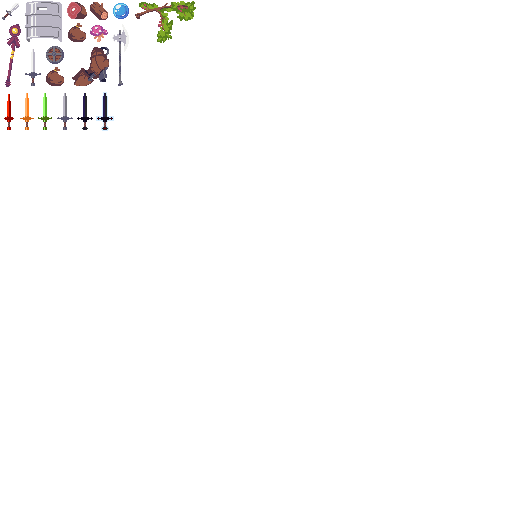
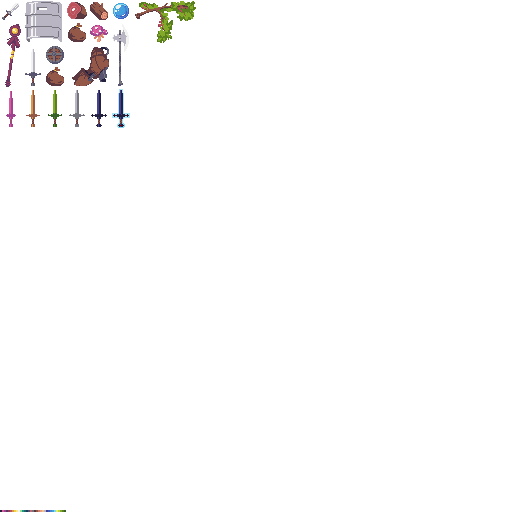
Updated New Items to match previous formating in spritesheet and in Palette

Changed region(s): [[0.0, 0.1562, 0.25, 0.25], [0.0, 0.9688, 0.125, 1.0]]

diff --git a/Dungeon Hunters/Assets/scripts/Mercenary.cs b/Dungeon Hunters/Assets/scripts/Mercenary.cs
@@ -218,7 +218,7 @@ public class Mercenary : MonoBehaviour {
 
         foreach(Item artifact in incData.Equipment)
         {
-            int dBoost = 0, oBoost = 0;
+            int dBoost = 5, oBoost = 5;//PLAYTEST GOD-MODE
             switch (artifact.Type)
             {
                 case ItemType.Armor:
